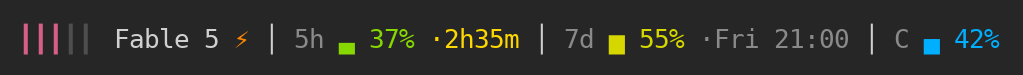
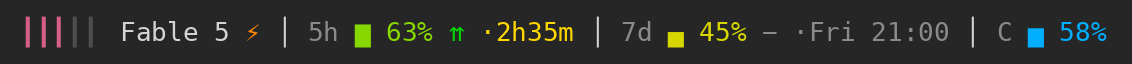
Add Enterprise support: spend-based tracking, pace arrows, and improved visual feedback
- Introduced automatic detection of spend-based Enterprise plans and switched to a tailored spend view with personal/org budgets and reset dates.
- Added multi-character arrows (⇈ ↑ − ↓ ⇊) to track usage pace compared to the elapsed window time.
- Enhanced gradients for charge (5h/7d limits) and free context, transitioning from green/teal to red/purple as the charge depletes.
- Updated fetcher to v1.5.0, adding support for spend-based formats and weekly timer improvements.
- Improved statusline output, README, and preview to reflect battery-style gauges.

Changed region(s): [[0.0, 0.25, 1.0, 0.75]]

diff --git a/fetch-usage.py b/fetch-usage.py
@@ -1,7 +1,7 @@
 #!/usr/bin/env python3
 """Claude Usage Status Fetcher - Retrieves usage data from Claude API."""
 
-__version__ = "1.3.0"
+__version__ = "1.5.0"
 
 from curl_cffi import requests
 import sys
@@ -65,7 +65,46 @@ def main():
             sys.exit(1)
 
         usage = usage_resp.json()
-        five_hour = usage.get('five_hour', {})
+
+        # Enterprise orgs have no 5h/7d rate windows (five_hour is null) —
+        # usage is spend-based: personal extra-usage credits + org-wide budget.
+        if usage.get('five_hour') is None:
+            spend = usage.get('spend') or {}
+            spend_used = (spend.get('used') or {}).get('amount_minor', 0)
+            spend_limit = (spend.get('limit') or {}).get('amount_minor', 0)
+            spend_pct = spend.get('percent')
+            if spend_pct is None:
+                spend_pct = int(spend_used * 100 / spend_limit) if spend_limit else 0
+
+            # Org-wide monthly overage spend — the real money meter for
+            # enterprise; regular seat usage lands here, not in amber_ladder
+            ov_used = -1
+            ov_limit = 0
+            try:
+                ov_resp = session.get(f'https://claude.ai/api/organizations/{org_id}/overage_spend_limit', timeout=5)
+                if ov_resp.status_code == 200:
+                    ov = ov_resp.json()
+                    ov_used = int(ov.get('used_credits') or 0)
+                    ov_limit = int(ov.get('monthly_credit_limit') or 0)
+            except Exception:
+                pass
+
+            # amber_ladder: contract credit pool ($ limit with a period reset),
+            # shown as reference info next to the live overage number
+            amber = usage.get('amber_ladder') or {}
+            amber_used = int(amber.get('used_dollars') or 0)
+            amber_limit = int(amber.get('limit_dollars') or 0)
+            amber_resets_at = amber.get('resets_at')
+            if amber_resets_at:
+                amber_dt = datetime.fromisoformat(amber_resets_at.replace('Z', '+00:00'))
+                amber_reset = amber_dt.astimezone().strftime('%b %d')
+            else:
+                amber_reset = '-'
+
+            print(f"E|{int(spend_pct)}|{spend_used}|{spend_limit}|{ov_used}|{ov_limit}|{amber_used}|{amber_limit}|{amber_reset}")
+            return
+
+        five_hour = usage.get('five_hour') or {}
         utilization = five_hour.get('utilization', 0)
         resets_at = five_hour.get('resets_at', '')
 
@@ -79,16 +118,18 @@ def main():
             minutes_remaining = -1  # Unknown
 
         # Weekly limit
-        seven_day = usage.get('seven_day', {})
+        seven_day = usage.get('seven_day') or {}
         week_utilization = seven_day.get('utilization', 0)
         week_resets_at = seven_day.get('resets_at', '')
         if week_resets_at:
             week_dt = datetime.fromisoformat(week_resets_at.replace('Z', '+00:00'))
             week_reset = week_dt.astimezone().strftime('%a %H:%M')
+            week_minutes_remaining = max(0, int((week_dt - datetime.now(week_dt.tzinfo)).total_seconds() / 60))
         else:
             week_reset = '-'  # Unknown
+            week_minutes_remaining = -1
 
-        print(f"{int(utilization)}|{minutes_remaining}|{int(week_utilization)}|{week_reset}")
+        print(f"{int(utilization)}|{minutes_remaining}|{int(week_utilization)}|{week_reset}|{week_minutes_remaining}")
 
     except requests.exceptions.RequestException as e:
         print(f"ERROR:{e}", file=sys.stderr)

diff --git a/README.md b/README.md
@@ -3,20 +3,21 @@
 [![Linux](https://img.shields.io/badge/Linux-FCC624?logo=linux&logoColor=black)](https://www.linux.org/)
 [![License: MIT](https://img.shields.io/badge/License-MIT-yellow.svg)](https://opensource.org/licenses/MIT)
 
-Real-time Claude API usage tracking for Claude Code's statusline with visual progress bars and color-coded gradients.
+Real-time Claude API usage tracking for Claude Code's statusline: battery-style gauges that drain as you spend your limits, plus pace chevrons that tell you whether you're burning through them faster or slower than the window itself.
 
 ## Preview
 
-![Statusline Preview](https://raw.githubusercontent.com/VladyslavAtom/claude-usage-statusline/refs/heads/main/assets/preview.png?v=3)
+![Statusline Preview](https://raw.githubusercontent.com/VladyslavAtom/claude-usage-statusline/refs/heads/main/assets/preview.png?v=4)
 
 ## Features
 
-- **Real-time Usage Tracking** - compact mini-gauges for the 5-hour and weekly limits
-- **Weekly Limit** - utilization plus the exact reset day and time
-- **Context Window Monitor** - Track how much context you've consumed
+- **Battery-style Gauges** - the 5-hour and weekly limits show what's *left*: full and green at the start of a window, draining to empty and red as you spend it
+- **Pace Arrows** - arrows (⇈ ↑ − ↓ ⇊) compare your usage rate against elapsed window time, so you know whether to slow down or you can go all in
+- **Weekly Limit** - remaining charge plus the exact reset day and time
+- **Context Window Monitor** - free context left, teal draining to purple
 - **Reset Countdown** - Know exactly when your 5-hour window resets
 - **Effort & Fast Mode Indicators** - current effort level (5 steps) and fast mode
-- **Color Gradients** - Visual feedback from green (low) to red (high)
+- **Color Gradients** - Visual feedback from green (full charge) to red (empty)
 - **5-minute Cache** - Minimizes API calls while staying current
 - **Multiple Profiles** - Support for separate work/personal configurations
 - **Team/Enterprise Support** - Auto-detects organization with Claude Code access
@@ -81,6 +82,22 @@ Organization selection priority:
 1. Explicit `organization` file (if exists)
 2. Auto-select org with `raven` capability (Team/Enterprise with Claude Code)
 3. First organization in the list
+
+### Enterprise (spend-based) plans
+
+Enterprise orgs have no 5h/7d rate windows — usage is billed as spend. The statusline detects this automatically and switches to a spend view:
+
+```
+▎▎▎▎▎ Fable 5 │ $ ▆ 63% ·$148/$400 │ org $3009/mo · $0/$25k Sep 02 │ C ▃ 37%
+```
+
+| Component | Description |
+|-----------|-------------|
+| $ | Personal extra-usage credits: remaining charge, spent/limit dollars |
+| org | Org-wide spend (dimmed, informational): live monthly overage spend (from `overage_spend_limit`, with `/limit` when the org has a monthly cap), then the contract credit pool with its reset date |
+| C | Context window, same as the regular view |
+
+Note: per-member spend breakdown exists in the API (`overage_spend_limits`) but requires the `billing:view` permission, so a regular seat only sees org-wide totals.
 
 ## Requirements
 
@@ -170,7 +187,7 @@ Add to `~/.claude/settings.json`:
 ## Display Format
 
 ```
-▎▎▎▎▎ Fable 5 ⚡ │ 5h ▃ 37% ·2h35m │ 7d ▅ 55% ·Fri 21:00 │ C ▄ 42%
+▎▎▎▎▎ Fable 5 ⚡ │ 5h ▆ 63% ⇈ ·2h35m │ 7d ▄ 45% − ·Fri 21:00 │ C ▅ 58%
 ```
 
 | Component | Description |
@@ -178,27 +195,41 @@ Add to `~/.claude/settings.json`:
 | ▎▎▎▎▎ | Effort level (low / medium / high / xhigh / max) |
 | Model | Current Claude model |
 | ⚡ | Fast mode enabled |
-| 5h | 5-hour limit: mini-gauge, percentage, time until reset |
-| 7d | Weekly limit: mini-gauge, percentage, reset day and time |
-| C | Context window consumption |
+| 5h | 5-hour limit: remaining charge, pace arrow, time until reset |
+| 7d | Weekly limit: remaining charge, pace arrow, reset day and time |
+| C | Context window: free context left |
 
-Each metric gets a single-character gauge (▁▂▃▄▅▆▇█ — 8 fill steps) colored by the gradient below.
+The gauges work like batteries: they show what's **left**, not what's used. A fresh window starts at `█ 100%` in green and drains through yellow and orange down to `▁ 0%` in red. Each gauge is a single character (█▇▆▅▄▃▂▁ — 8 drain steps) colored by the charge gradient below.
+
+### Pace Arrows
+
+The arrow after each limit compares how much you've spent against how much of the window has elapsed. Double arrow = strong signal, single = mild:
+
+| Arrow | Spend rate vs elapsed time | Meaning |
+|-------|---------------------------|---------|
+| ⇈ (green) | < 0.5× | Way under pace — the window will reset with limit to spare |
+| ↑ (light green) | 0.5–0.8× | A bit under pace |
+| − (gray) | 0.8–1.2× | On pace |
+| ↓ (orange) | 1.2–1.5× | A bit over pace |
+| ⇊ (red) | > 1.5× | Slow down — you'll hit the limit before the reset |
+
+During the first ~5% of a window the ratio is too noisy, so the arrow stays at `−`. The 7d arrow needs the fetcher v1.4+ (it adds minutes-until-weekly-reset to the output); with older cached data it gracefully shows `−`.
 
 ## Color Coding
 
-### Limits (5h / 7d)
+### Limit Charge (5h / 7d)
 
-| Usage | Color |
-|-------|-------|
-| 0-20% | Green |
-| 21-50% | Yellow-green |
-| 51-70% | Yellow |
-| 71-90% | Orange |
-| 91-100% | Red |
+| Remaining | Color |
+|-----------|-------|
+| 100-80% | Green |
+| 79-50% | Yellow-green |
+| 49-30% | Yellow |
+| 29-10% | Orange |
+| 9-0% | Red |
 
 ### Context Window (C)
 
-Cyan → Blue → Purple gradient as context fills up.
+Teal → Blue → Purple gradient as free context drains.
 
 ### Reset Timer
 